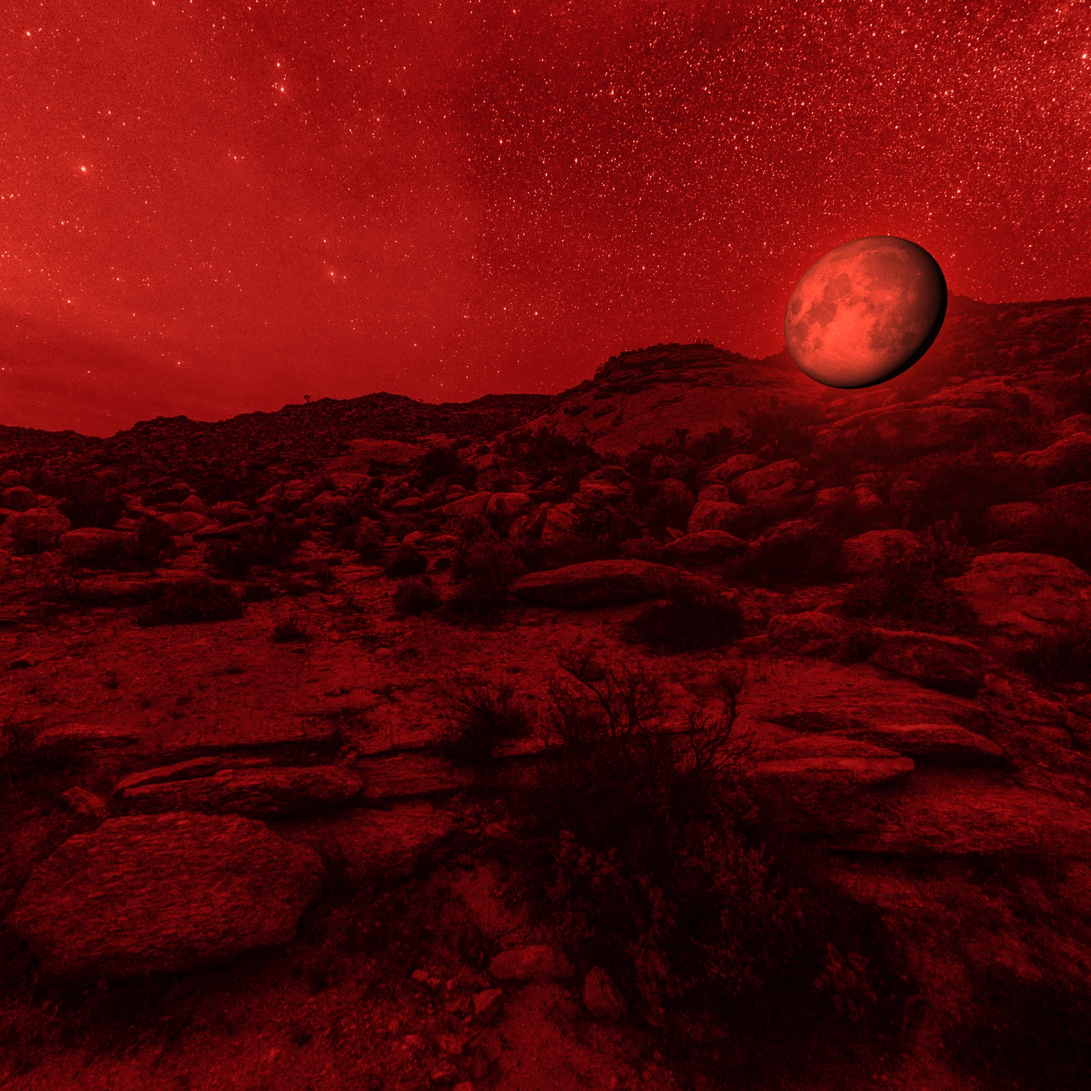
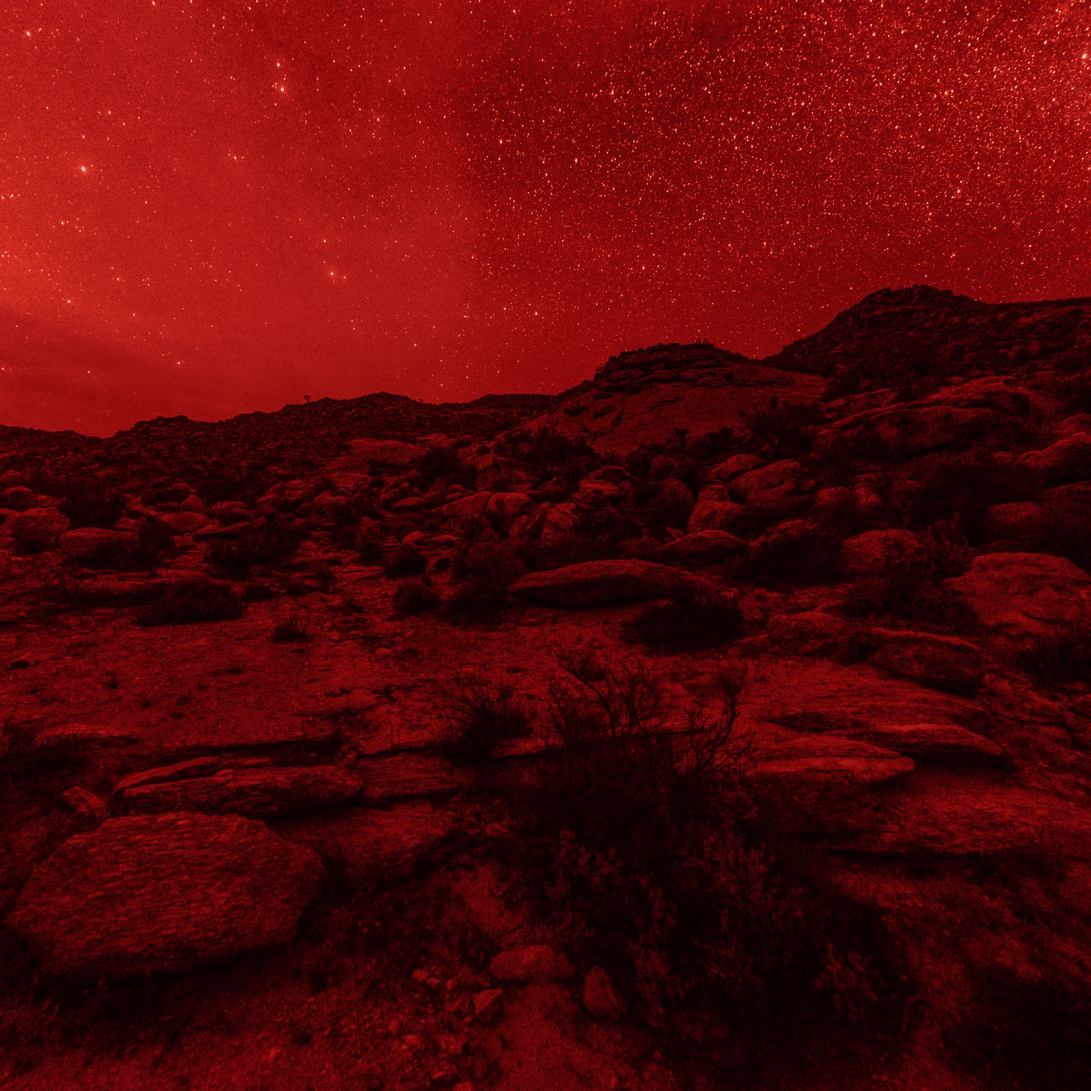
Remove the moon from Black, Red and Anime Night

Changed region(s): [[0.625, 0.1562, 1.0, 0.4375]]

diff --git a/api.md b/api.md
@@ -292,14 +292,14 @@ await SkyAPI.loadPreset("black");
 
 | Preset | Look |
 |--------|------|
-| `black` | Black & white night, giant moon, mountain silhouettes |
-| `red` | Blood-red night, red moon, rocky desert |
+| `black` | Black & white night, streaky clouds, mountain silhouettes |
+| `red` | Blood-red starry night, rocky desert |
 | `antarctica` | Endless snow plain, icy blue sky |
 | `tokyo-dark` | Neon city skyline at night |
 | `tokyo-light` | Pastel city skyline |
 | `midnight` | Deep blue starry sky |
 | `moonrise` | Blue-hour sky with a rising moon |
-| `anime-night` | Purple anime-style night, bright moon |
+| `anime-night` | Purple anime-style night with glowing clouds |
 | `grunge` | Dark sky with pink clouds |
 | `bluey-night` | Soft pink nebula with stars |
 | `lightberry` | Anime-style power lines under a blue night sky |

diff --git a/README.md b/README.md
@@ -27,7 +27,7 @@ See [api.md](api.md) for the full API and auto-loading with Tampermonkey.
 
 ## Sky Credits
 
-Preset skies are built from CC0 HDRIs by [Poly Haven](https://polyhaven.com) and the public-domain [NASA SVS CGI Moon Kit](https://svs.gsfc.nasa.gov/4720). Each preset's `sky.json` lists its source.
+Preset skies are built from CC0 HDRIs by [Poly Haven](https://polyhaven.com). Each preset's `sky.json` lists its source.
 
 Resource-pack skies, credited to their packs and makers:
 - **Grunge**: GRUNGE pack
